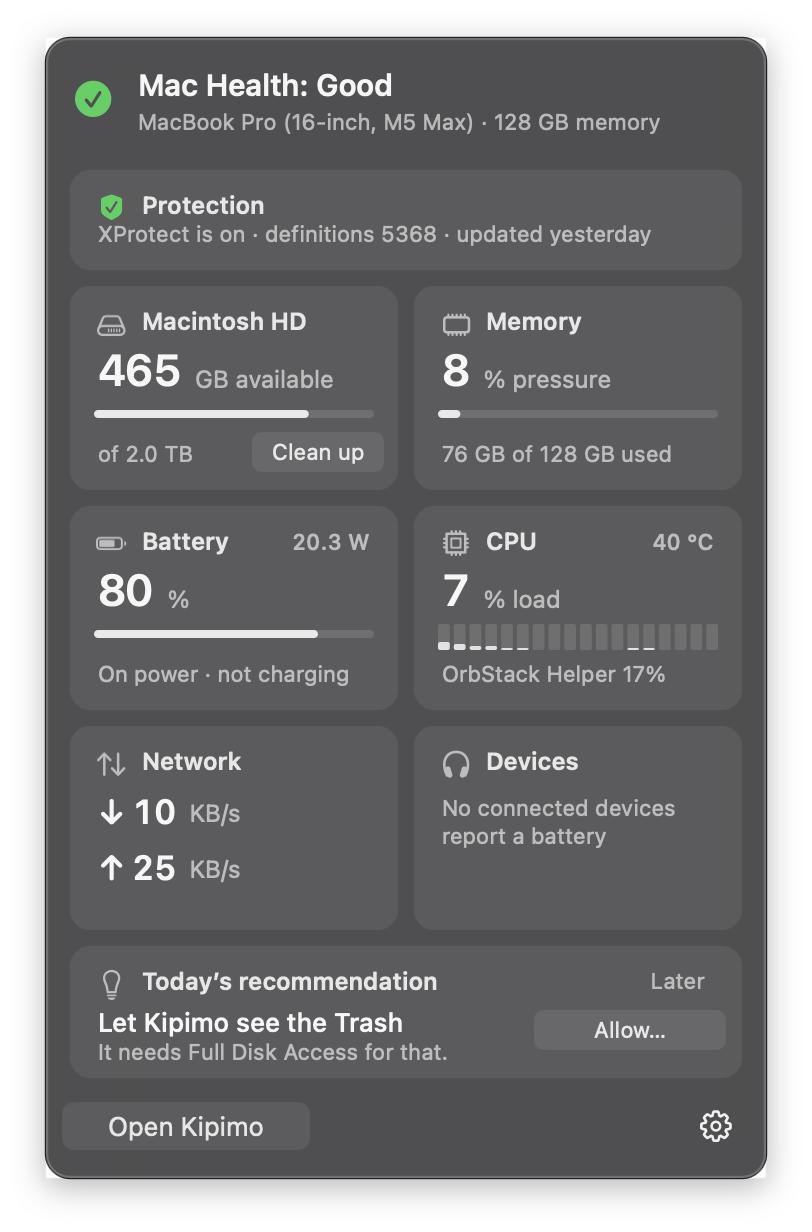
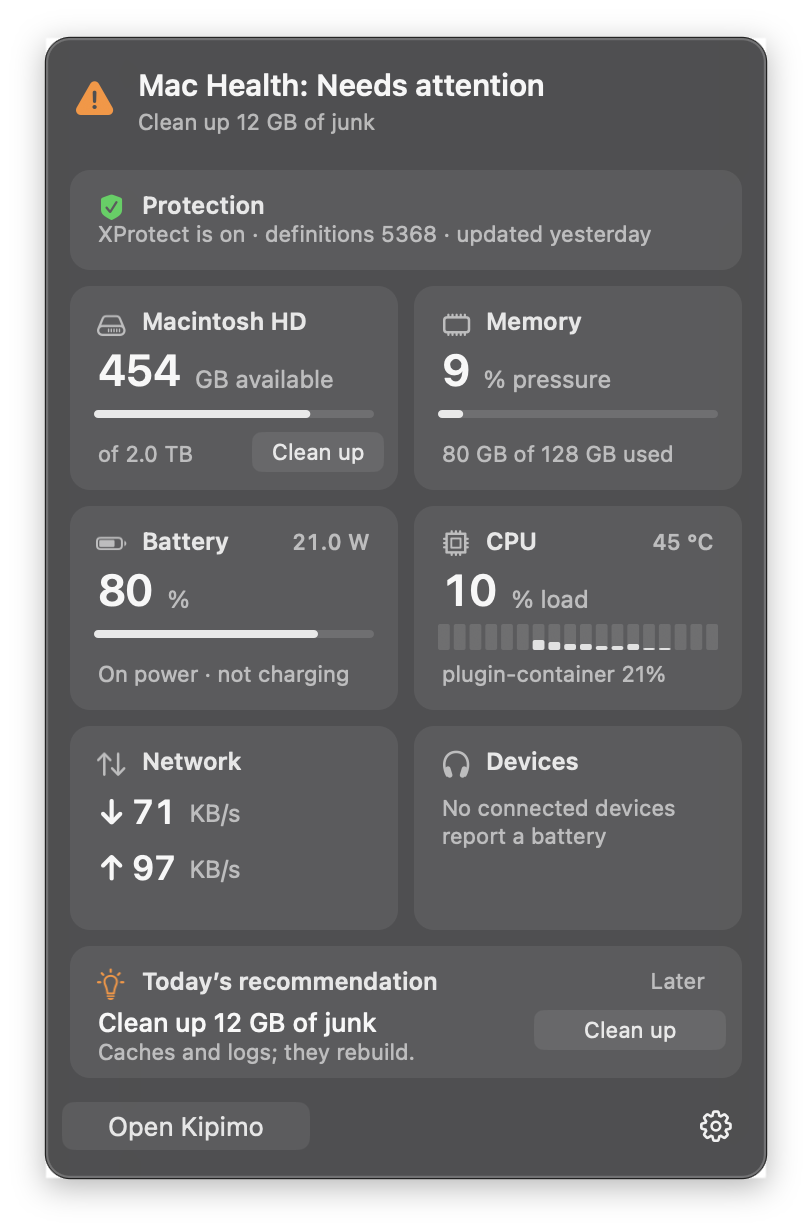
Refresh the screenshots and tidy the tools pages
New shots of the panel, each tools page, the leftovers review and
Settings, taken of Kipimo's own windows. Footer text now stops where
the buttons start, Sparkle's RFC 2822 dates read as dates, and the
demo URLs (kipimo://demo/…) drive the pages for screenshots.

diff --git a/crates/app/src/review_window.rs b/crates/app/src/review_window.rs
@@ -81,13 +81,21 @@ pub fn show(bundle_id: &str) {
 /// In the tools process: find the leftovers of `bundle` and show them.
 pub fn show_bundle(bundle: PathBuf) {
     let mtm = util::mtm();
-    if let Some(w) = STATE.with(|s| s.borrow().as_ref().filter(|s| s.bundle == bundle).map(|s| s.window.clone())) {
+    if let Some(w) = STATE.with(|s| {
+        s.borrow()
+            .as_ref()
+            .filter(|s| s.bundle == bundle)
+            .map(|s| s.window.clone())
+    }) {
         crate::tools_window::activate();
         w.makeKeyAndOrderFront(None);
         return;
     }
     close();
-    let name = bundle.file_stem().map(|n| n.to_string_lossy().into_owned()).unwrap_or_default();
+    let name = bundle
+        .file_stem()
+        .map(|n| n.to_string_lossy().into_owned())
+        .unwrap_or_default();
     let (w, h) = (700.0, 560.0);
     let window = unsafe {
         NSWindow::initWithContentRect_styleMask_backing_defer(
@@ -101,7 +109,9 @@ pub fn show_bundle(bundle: PathBuf) {
     unsafe { window.setReleasedWhenClosed(false) };
     window.setTitle(&ns(&format!("Leftovers from {name}")));
     window.setContentMinSize(NSSize::new(560.0, 420.0));
-    let review = Review::new(mtm, rect(0.0, 0.0, w, h), |picked| page::post(remove, picked));
+    let review = Review::new(mtm, rect(0.0, 0.0, w, h), |picked| {
+        page::post(remove, picked)
+    });
     review.loading(None, &name);
     window.setContentView(Some(&review.view));
     let this = Delegate::alloc(mtm).set_ivars(());
@@ -110,7 +120,13 @@ pub fn show_bundle(bundle: PathBuf) {
     window.center();
     let cancel = Arc::new(AtomicBool::new(false));
     STATE.with(|s| {
-        *s.borrow_mut() = Some(State { window: window.clone(), _delegate: delegate, review, bundle: bundle.clone(), cancel: cancel.clone() })
+        *s.borrow_mut() = Some(State {
+            window: window.clone(),
+            _delegate: delegate,
+            review,
+            bundle: bundle.clone(),
+            cancel: cancel.clone(),
+        })
     });
     crate::tools_window::activate();
     window.makeKeyAndOrderFront(None);
@@ -119,7 +135,8 @@ pub fn show_bundle(bundle: PathBuf) {
         Priority::User,
         move || {
             let env = Env::current_user().map_err(|e| e.to_string())?;
-            kipimo_clean::find_leftovers_for_bundle(&env, &b, &cancel).ok_or_else(|| "That app has no bundle identifier.".to_string())
+            kipimo_clean::find_leftovers_for_bundle(&env, &b, &cancel)
+                .ok_or_else(|| "That app has no bundle identifier.".to_string())
         },
         move |r| page::post(found, (bundle, r.and_then(|r| r))),
     );
@@ -128,9 +145,13 @@ pub fn show_bundle(bundle: PathBuf) {
 fn found((bundle, r): (PathBuf, Result<LeftoverReport, String>)) {
     STATE.with(|s| {
         let s = s.borrow();
-        let Some(s) = s.as_ref().filter(|s| s.bundle == bundle) else { return };
+        let Some(s) = s.as_ref().filter(|s| s.bundle == bundle) else {
+            return;
+        };
         match r {
-            Ok(report) if report.leftovers.is_empty() => s.review.clear("It didn't leave anything behind."),
+            Ok(report) if report.leftovers.is_empty() => {
+                s.review.clear("It didn't leave anything behind.")
+            }
             Ok(report) => s.review.show(None, report),
             Err(e) => s.review.clear(&e),
         }
@@ -144,13 +165,20 @@ pub fn close() {
 }
 
 fn remove(picked: Vec<Leftover>) {
-    let Some((report, cancel)) = STATE.with(|s| s.borrow().as_ref().and_then(|s| Some((s.review.report()?, s.cancel.clone())))) else {
+    let Some((report, cancel)) = STATE.with(|s| {
+        s.borrow()
+            .as_ref()
+            .and_then(|s| Some((s.review.report()?, s.cancel.clone())))
+    }) else {
         return;
     };
     let bytes: u64 = picked.iter().map(|l| l.bytes).sum();
     if !page::confirm(
         &format!("Move {} items to the Trash?", picked.len()),
-        &format!("{} in all. You can put them back from the Trash in Finder.", format::bytes(bytes)),
+        &format!(
+            "{} in all. You can put them back from the Trash in Finder.",
+            format::bytes(bytes)
+        ),
         "Move to Trash",
     ) {
         return;
@@ -165,7 +193,13 @@ fn remove(picked: Vec<Leftover>) {
         Priority::User,
         move || {
             let env = Env::current_user().map_err(|e| e.to_string())?;
-            Ok::<_, String>(kipimo_clean::remove_leftovers(&env, &report.target, &picked, &mut |_, _| {}, &cancel))
+            Ok::<_, String>(kipimo_clean::remove_leftovers(
+                &env,
+                &report.target,
+                &picked,
+                &mut |_, _| {},
+                &cancel,
+            ))
         },
         move |r| page::post(removed, (id, r.and_then(|r| r))),
     );
@@ -178,7 +212,11 @@ fn removed((bundle_id, r): (String, Result<Vec<ItemResult>, String>)) {
         match r {
             Ok(results) => {
                 let n = results.iter().filter(|r| r.moved()).count();
-                s.review.results(None, results, &format!("{n} items are in the Trash. Put Back in Finder restores them."));
+                s.review.results(
+                    None,
+                    results,
+                    &format!("{n} items are in the Trash. Put Back in Finder restores them."),
+                );
             }
             Err(e) => s.review.clear(&e),
         }

diff --git a/crates/app/src/tools_process.rs b/crates/app/src/tools_process.rs
@@ -52,14 +52,26 @@ pub fn send(command: &str) {
     let mut slot = CHILD.lock().unwrap();
     if let Some(h) = slot.as_mut() {
         let alive = matches!(h.child.try_wait(), Ok(None));
-        if alive && writeln!(h.stdin, "{command}").and_then(|_| h.stdin.flush()).is_ok() {
+        if alive
+            && writeln!(h.stdin, "{command}")
+                .and_then(|_| h.stdin.flush())
+                .is_ok()
+        {
             yield_to(h.child.id(), 40);
             return;
         }
         *slot = None;
     }
-    let Ok(exe) = std::env::current_exe() else { return };
-    let spawned = Command::new(exe).arg(ARG).arg(command).stdin(Stdio::piped()).stdout(Stdio::piped()).stderr(Stdio::inherit()).spawn();
+    let Ok(exe) = std::env::current_exe() else {
+        return;
+    };
+    let spawned = Command::new(exe)
+        .arg(ARG)
+        .arg(command)
+        .stdin(Stdio::piped())
+        .stdout(Stdio::piped())
+        .stderr(Stdio::inherit())
+        .spawn();
     let mut child = match spawned {
         Ok(c) => c,
         Err(e) => {
@@ -67,7 +79,9 @@ pub fn send(command: &str) {
             return;
         }
     };
-    let (Some(stdin), Some(stdout)) = (child.stdin.take(), child.stdout.take()) else { return };
+    let (Some(stdin), Some(stdout)) = (child.stdin.take(), child.stdout.take()) else {
+        return;
+    };
     std::thread::spawn(move || {
         for line in BufReader::new(stdout).lines().map_while(Result::ok) {
             util::main_async(move || from_child(&line));

diff --git a/crates/app/src/pages/startup.rs b/crates/app/src/pages/startup.rs
@@ -227,7 +227,10 @@ pub fn demo(arg: &str) {
         post(handle, Msg::Repair);
     } else if arg == "flagged" {
         with(|st| {
-            let k = st.keys.iter().position(|k| matches!(k, Key::Item(i) if st.items[*i].needs_attention()));
+            let k = st
+                .keys
+                .iter()
+                .position(|k| matches!(k, Key::Item(i) if st.items[*i].needs_attention()));
             if let Some(k) = k {
                 st.list.select_key(k);
             }

diff --git a/crates/app/src/insights.rs b/crates/app/src/insights.rs
@@ -164,7 +164,7 @@ impl Source for Junk {
         Some(Recommendation {
             id: "junk".into(),
             title: format!("Clean up {} of junk", format::bytes(bytes)),
-            detail: "Caches and logs that rebuild themselves.".into(),
+            detail: "Caches and logs; they rebuild.".into(),
             button: Some(("Clean up".into(), Action::OpenTools(Tab::Clean))),
             priority: 70,
             nag: true,

diff --git a/crates/app/src/pages/updates.rs b/crates/app/src/pages/updates.rs
@@ -86,7 +86,7 @@ fn build(mtm: MainThreadMarker, frame: NSRect) -> Retained<NSView> {
         &root,
         w,
         "Updates",
-        "Newer versions from each app's own feed and the App Store. Nothing is installed.",
+        "Newer versions from app feeds and the App Store. Nothing gets installed.",
     );
     let check_button = header.button(mtm, &root, "Check Now", &mut targets, || {
         post(handle, Msg::Check(true))

diff --git a/crates/app/src/page.rs b/crates/app/src/page.rs
@@ -180,6 +180,10 @@ impl Footer {
         widgets::pin_bottom_right(&b);
         root.addSubview(&b);
         self.next_x -= 4.0;
+        // The summary text ends where the buttons start.
+        let mut f = self.text.frame();
+        f.size.width = (self.next_x - f.origin.x - 8.0).max(60.0);
+        self.text.setFrame(f);
         b
     }
 }
